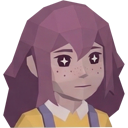
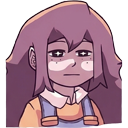
fixed almost there

diff --git a/src/renderer/models/AppModel.js b/src/renderer/models/AppModel.js
@@ -59,39 +59,53 @@ function isDirectoryEntry(entry) {
   return !!entry && (entry.isDirectory === true || typeof entry.isDirectory === 'function' && entry.isDirectory());
 }
 
-function discoverCharacters(env) {
-  const characters = [];
-  if (!env.fs.existsSync(env.charImgDir)) return characters;
+function listCharacterDirectoryNames(env, rootDir) {
+  if (!env.fs.existsSync(rootDir)) return [];
 
-  const dirs = env.fs.readdirSync(env.charImgDir, {
-    withFileTypes: true
+  return env.fs.readdirSync(rootDir, {
+    withFileTypes: true,
   })
     .filter((entry) => isDirectoryEntry(entry))
     .map((entry) => entry.name);
+}
 
-  for (const name of dirs) {
+function discoverCharacters(env) {
+  const characters = [];
+  const names = new Set([
+    ...listCharacterDirectoryNames(env, env.charImgDir),
+    ...listCharacterDirectoryNames(env, env.charSndDir),
+  ]);
+
+  if (names.size === 0) return characters;
+
+  for (const name of names) {
     const imgDir = env.path.join(env.charImgDir, name);
     const sndDir = env.path.join(env.charSndDir, name);
+    const hasImgDirectory = env.fs.existsSync(imgDir);
+    const hasSoundDirectory = env.fs.existsSync(sndDir);
 
-    if (!env.fs.existsSync(imgDir) || !env.fs.existsSync(sndDir)) continue;
+    if (!hasImgDirectory && !hasSoundDirectory) continue;
 
     const speakFrames = [];
     const idleFrames = [];
+    const displaySpritePath = env.path.join(imgDir, 'i1.png');
 
-    for (let i = 1; i <= SPEAK_FRAME_COUNT; i += 1) {
-      const spritePath = env.path.join(imgDir, `s${i}.png`);
-      if (env.fs.existsSync(spritePath)) speakFrames.push(spritePath);
-    }
+    if (hasImgDirectory) {
+      for (let i = 1; i <= SPEAK_FRAME_COUNT; i += 1) {
+        const spritePath = env.path.join(imgDir, `s${i}.png`);
+        if (env.fs.existsSync(spritePath)) speakFrames.push(spritePath);
+      }
 
-    for (let i = 1; i <= IDLE_FRAME_COUNT; i += 1) {
-      const spritePath = env.path.join(imgDir, `i${i}.png`);
-      if (env.fs.existsSync(spritePath)) idleFrames.push(spritePath);
+      for (let i = 1; i <= IDLE_FRAME_COUNT; i += 1) {
+        const spritePath = env.path.join(imgDir, `i${i}.png`);
+        if (env.fs.existsSync(spritePath)) idleFrames.push(spritePath);
+      }
     }
 
     const soundFiles = [];
     let soundConfig = {};
 
-    if (env.fs.existsSync(sndDir)) {
+    if (hasSoundDirectory) {
       const files = env.fs.readdirSync(sndDir).filter((file) => /\.(wav|mp3|ogg)$/i.test(file));
       files.forEach((file) => {
         soundFiles.push(env.path.join(sndDir, file));
@@ -114,12 +128,14 @@ function discoverCharacters(env) {
     const parsedBasePitchTones = Number(soundConfig?.pitch);
     const hasAllSprites = speakFrames.length === SPEAK_FRAME_COUNT && idleFrames.length === IDLE_FRAME_COUNT;
     const hasAnySound = soundFiles.length > 0;
+    const hasDisplaySprite = hasImgDirectory && env.fs.existsSync(displaySpritePath);
 
     characters.push({
       id: name,
       displayName: name.charAt(0).toUpperCase() + name.slice(1),
       speakFrames,
       idleFrames,
+      previewSpritePath: hasDisplaySprite ? displaySpritePath : null,
       sounds: soundFiles,
       hasVariablePitch: soundConfig?.hasVariablePitch === true || soundConfig?.hasSingleClip === true,
       basePitchTones: Number.isFinite(parsedBasePitchTones) ? parsedBasePitchTones : 0,
@@ -127,6 +143,8 @@ function discoverCharacters(env) {
       isAvailable: hasAllSprites && hasAnySound,
       hasAllSprites,
       hasAnySound,
+      hasImgDirectory,
+      hasSoundDirectory,
     });
   }
 

diff --git a/src/renderer/controllers/AppController.js b/src/renderer/controllers/AppController.js
@@ -41,6 +41,13 @@ function startApp() {
     if (refs.inputN64) state.n64ModeEnabled = refs.inputN64.checked;
   }
 
+  function blurPlaybackButtonFocus() {
+    const activeElement = document.activeElement;
+    if (!(activeElement instanceof HTMLElement)) return;
+    if (!activeElement.matches('#btn-play, #btn-pause, #btn-stop, #btn-fastforward')) return;
+    activeElement.blur();
+  }
+
   function updatePlayButton() {
     const hasText = refs.input.value.trim().length > 0;
     const hasCharacter = state.selectedCharacter !== null;
@@ -169,6 +176,7 @@ function startApp() {
     view.setActionButtonBlocked(refs.btnPause, false);
     view.setActionButtonBlocked(refs.btnStop, false);
     view.setInputLocked(true);
+    blurPlaybackButtonFocus();
     document.querySelectorAll('.char-btn').forEach((button) => {
       button.disabled = true;
     });
@@ -723,15 +731,16 @@ function startApp() {
   window.addEventListener('keydown', (event) => {
     if (event.code !== 'Space' || event.repeat || !canFastForward()) return;
     event.preventDefault();
+    blurPlaybackButtonFocus();
     state.fastForwardKeyHeld = true;
     syncFastForwardState();
-  });
+  }, true);
 
   window.addEventListener('keyup', (event) => {
     if (event.code !== 'Space') return;
     state.fastForwardKeyHeld = false;
     syncFastForwardState();
-  });
+  }, true);
 
   window.addEventListener('blur', () => {
     resetFastForwardState();

diff --git a/src/renderer/views/AppView.js b/src/renderer/views/AppView.js
@@ -1082,7 +1082,7 @@ function createAppView(model, audioService) {
       spriteWrap.className = 'char-btn-sprite';
 
       const spriteImage = document.createElement('img');
-      const previewPath = character.idleFrames[0] || character.speakFrames[0] || null;
+      const previewPath = character.previewSpritePath || null;
       if (previewPath) {
         spriteImage.src = fileToSrc(previewPath);
       } else {
@@ -1110,8 +1110,8 @@ function createAppView(model, audioService) {
           badge.src = fileToSrc(warningPath);
           badge.alt = 'Unavailable';
           badge.title = (!character.hasAllSprites && !character.hasAnySound) ?
-            'Missing sprite frames and no sounds' :
-            (!character.hasAllSprites ? 'Missing sprite frames' : 'No sounds found');
+            'Missing sprite frames and no usable sounds' :
+            (!character.hasAllSprites ? 'Missing sprite frames' : 'No usable sounds found');
           button.appendChild(badge);
         }
       }
